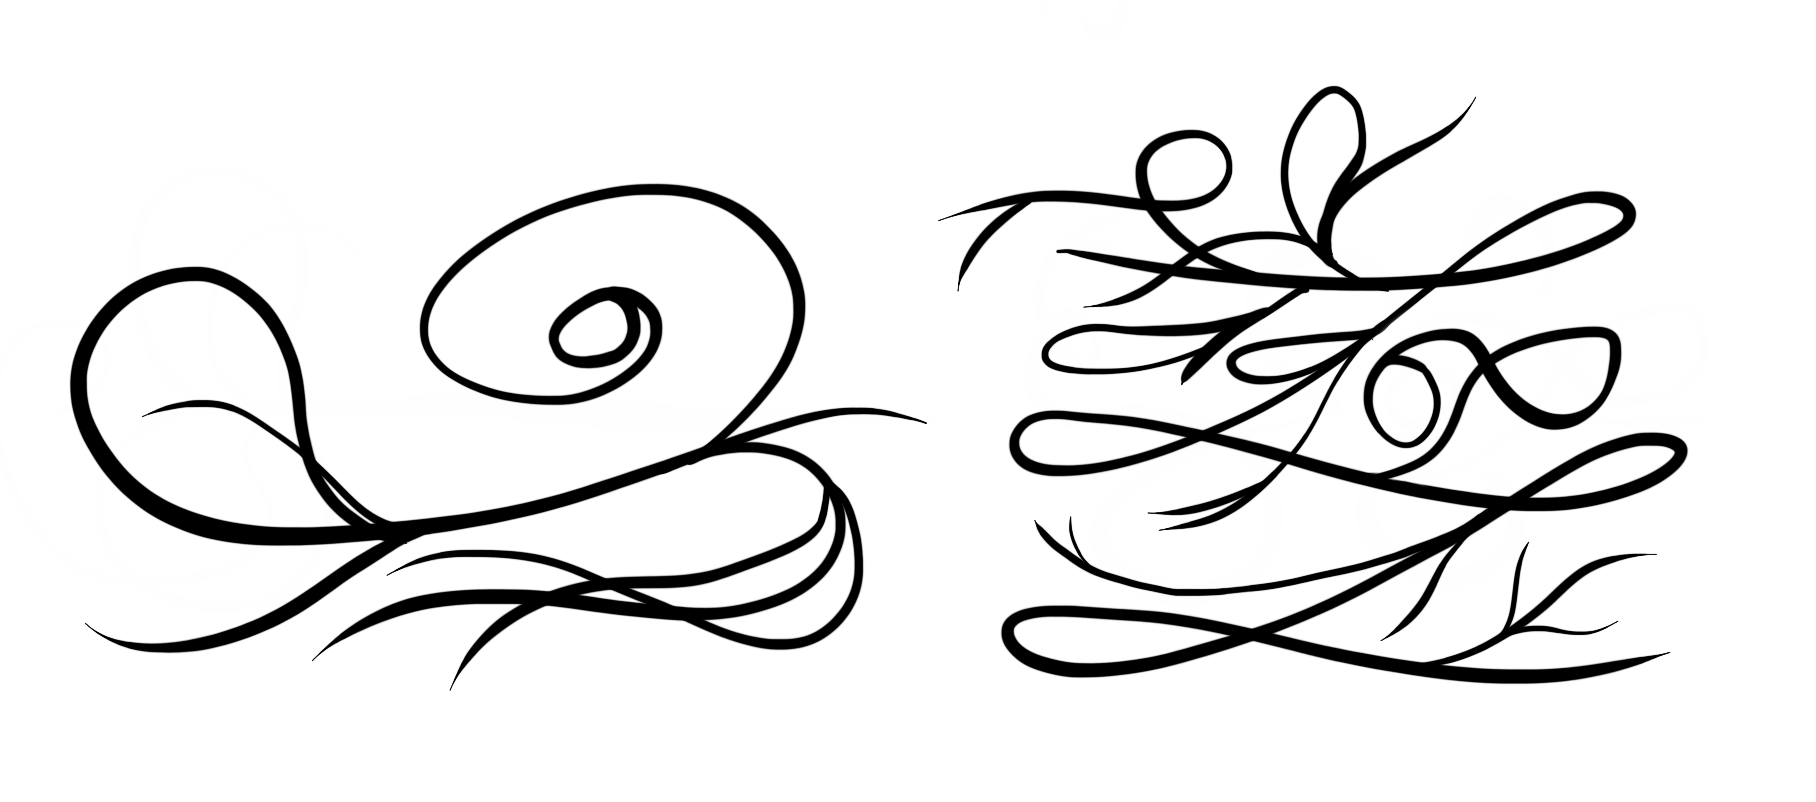
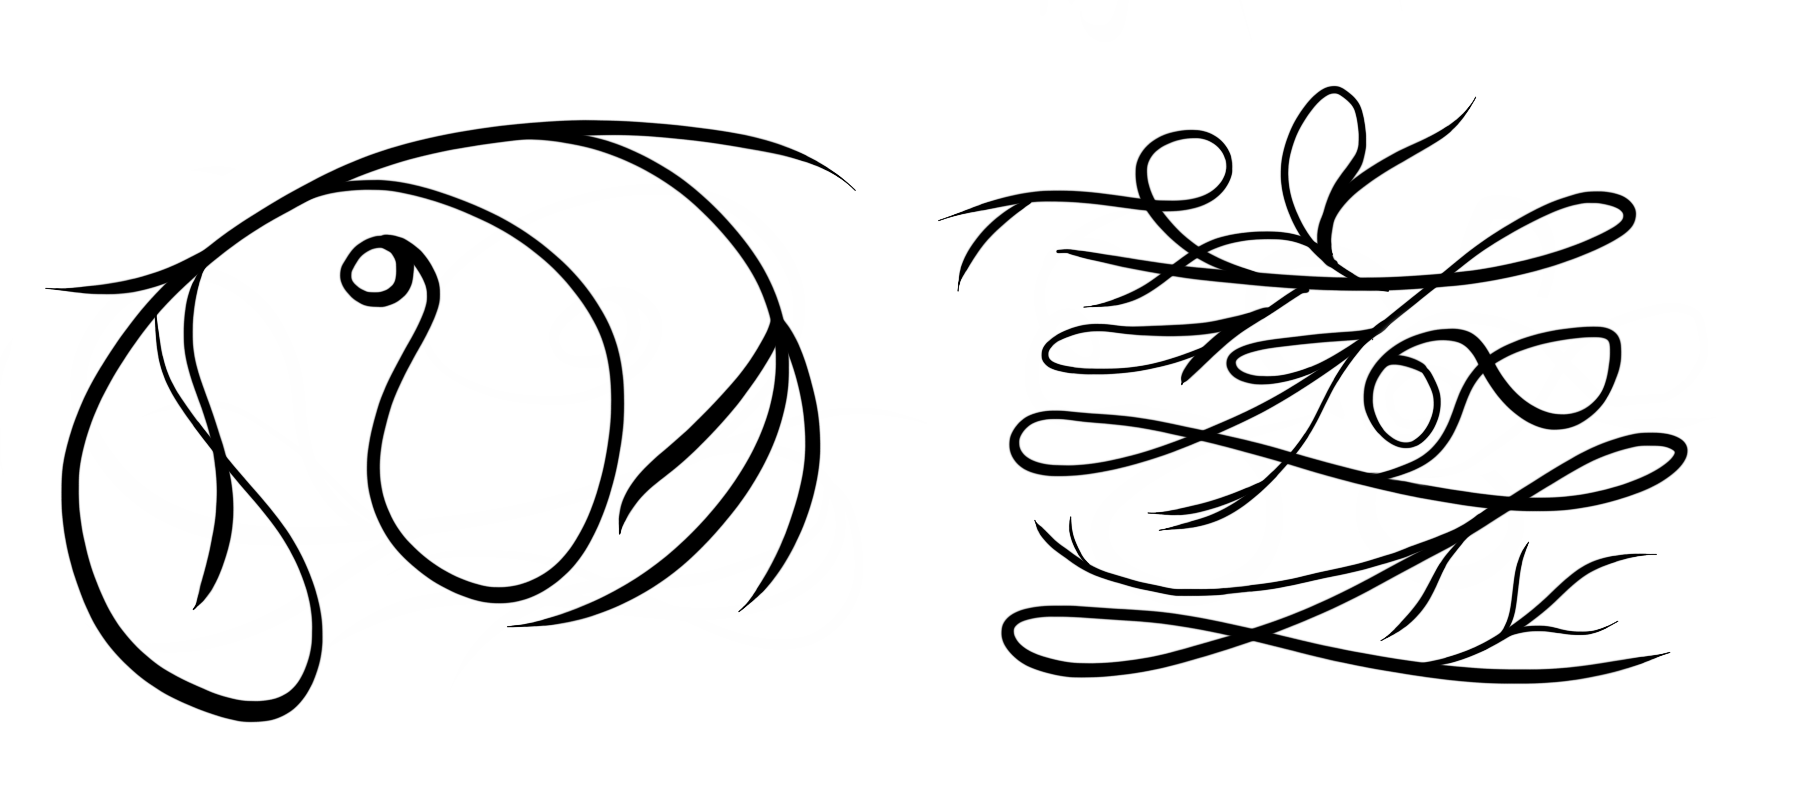
consonant caps for writing system

Changed region(s): [[0.0308, 0.1247, 0.4934, 0.904], [0.4317, 0.187, 0.4626, 0.2182]]

diff --git a/031_writing-system.md b/031_writing-system.md
@@ -86,6 +86,12 @@ This example is nonsense (for now), and a bit cramped, but you can see how on u 
 
 Note that special cluster **tk** has its own symbol.
 
+### Optional exception: single-consonant initial/final
+
+When a word begins or ends with one consonant (or tk, the special cluster), the consonant can cap the vowel rather than branching off it, **unless that consonant is _b_ or _p_**.
+
+![consonant caps](/assets/yols-ir1.png)
+
 ### Non-ornamental Loops in Vowels
 
 Sometimes lone "o" appears in words, for example the name "huoxin" hu+o+xin.
